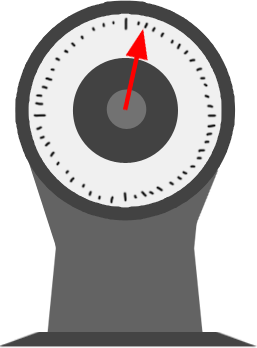
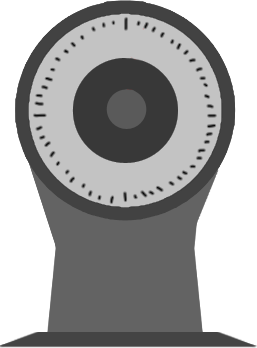
PressurePlate improved to rotate the indicator.

diff --git a/trunk/Nobots/Nobots/Nobots/Elements/PressurePlate.cs b/trunk/Nobots/Nobots/Nobots/Elements/PressurePlate.cs
@@ -15,6 +15,11 @@ namespace Nobots.Elements
     {
         Body body;
         Texture2D texture;
+        Texture2D texture2;
+        Texture2D texture3;
+        Texture2D texture4;
+        int rotation = 0;
+        int targetRotation = 0;
         int collisionsNumber = 0;
 
         public override float Width
@@ -57,11 +62,10 @@ namespace Nobots.Elements
         {
             get
             {
-                return body.Rotation;
+                return 0;
             }
             set
             {
-                body.Rotation = value;
             }
         }
 
@@ -70,6 +74,9 @@ namespace Nobots.Elements
         {
             ZBuffer = -7f;
             texture = Game.Content.Load<Texture2D>("weight");
+            texture2 = Game.Content.Load<Texture2D>("weight2");
+            texture3 = Game.Content.Load<Texture2D>("weight3");
+            texture4 = Game.Content.Load<Texture2D>("weight4");
             Height = Conversion.ToWorld(17f);
             Vertices vertices = new Vertices(4);
             vertices.Add(new Vector2(-Conversion.ToWorld(texture.Width) / 2 + 0.4f, -height / 2));
@@ -87,23 +94,39 @@ namespace Nobots.Elements
         {
             if (ActivableElement != null && collisionsNumber == 1)
                 ActivableElement.Active = false;
+            if (collisionsNumber == 1)
+                targetRotation = 0;
             collisionsNumber--;
         }
 
         bool body_OnCollision(Fixture fixtureA, Fixture fixtureB, Contact contact)
         {
-            if(ActivableElement != null && collisionsNumber == 0)
+            if (ActivableElement != null && collisionsNumber == 0)
                 ActivableElement.Active = true;
+            if (collisionsNumber == 0)
+                targetRotation = 500;
             collisionsNumber++;
 
             return true;
         }
 
+        public override void Update(GameTime gameTime)
+        {
+            if (targetRotation > rotation)
+                rotation += 25;
+            else if (targetRotation < rotation)
+                rotation -= 25;
+        }
+
         public override void Draw(GameTime gameTime)
         {
             float scale = scene.Camera.Scale;
-            texture = (collisionsNumber == 0) ? Game.Content.Load<Texture2D>("weight") : Game.Content.Load<Texture2D>("weight2");
-            scene.SpriteBatch.Draw(texture, scale * (Conversion.ToDisplay(body.Position - scene.Camera.Position) - (Vector2.UnitY * (texture.Height - 17) / 2.0f)), null, Color.White, body.Rotation, new Vector2(texture.Width / 2.0f, texture.Height / 2.0f), scale, SpriteEffects.None, 0);
+            scene.SpriteBatch.Draw(texture, scale * (Conversion.ToDisplay(body.Position - scene.Camera.Position) - (Vector2.UnitY * (texture.Height - 17) / 2.0f)), null, Color.White, 0, new Vector2(texture.Width / 2.0f, texture.Height / 2.0f), scale, SpriteEffects.None, 0);
+            if (rotation > 0)
+                scene.SpriteBatch.Draw(texture2, scale * (Conversion.ToDisplay(body.Position - scene.Camera.Position) - (Vector2.UnitY * (texture.Height - 17) / 2.0f)), null, Color.White * (rotation / 500.0f), 0, new Vector2(texture.Width / 2.0f, texture.Height / 2.0f), scale, SpriteEffects.None, 0);
+            scene.SpriteBatch.Draw(texture3, scale * (Conversion.ToDisplay(body.Position - scene.Camera.Position) - Vector2.UnitY * 230), null, Color.White, rotation / 100.0f, new Vector2(texture3.Width / 2.0f, texture3.Height / 2.0f), scale, SpriteEffects.None, 0);
+            if (rotation > 0)
+                scene.SpriteBatch.Draw(texture4, scale * (Conversion.ToDisplay(body.Position - scene.Camera.Position) - Vector2.UnitY * 230), null, Color.White, rotation / 100.0f, new Vector2(texture3.Width / 2.0f, texture3.Height / 2.0f), scale, SpriteEffects.None, 0);
         }
 
         protected override void Dispose(bool disposing)
